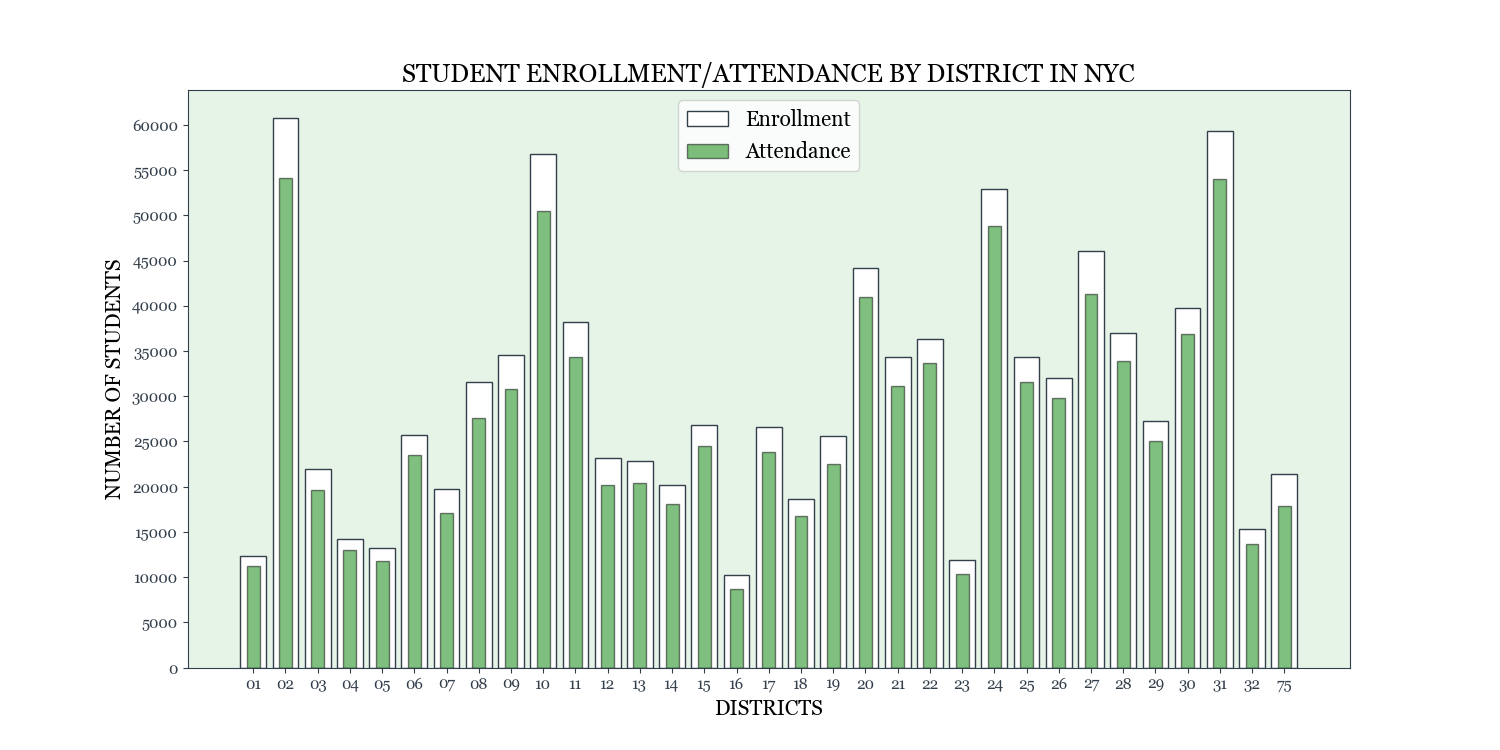
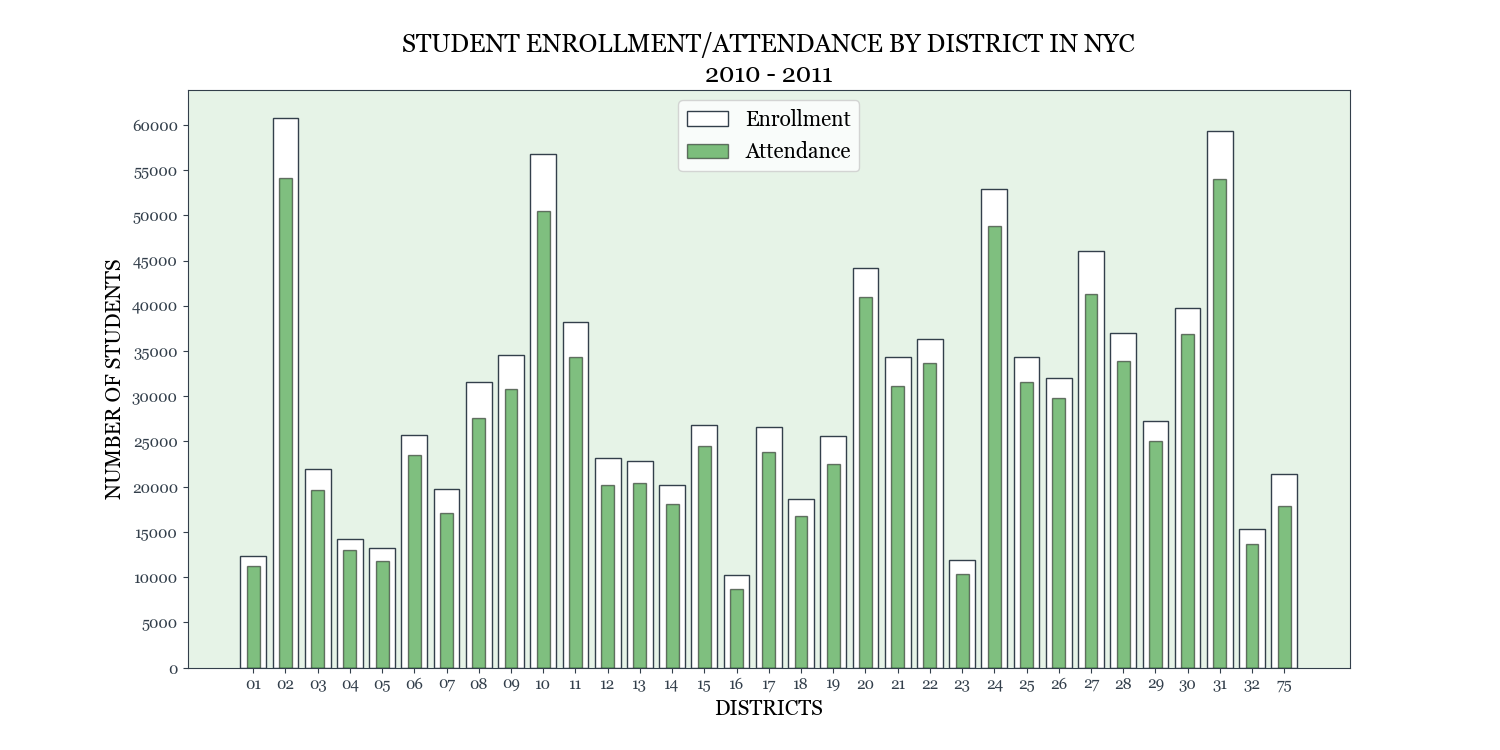
Update graph to contain date of data collection

Changed region(s): [[0.276, 0.0307, 0.7667, 0.1227]]

diff --git a/district_enrollment/school.py b/district_enrollment/school.py
@@ -37,8 +37,7 @@ plt.yticks(np.arange(0, max(enrollment), tickfq)) #change tick frequency
 # LABELS
 plt.xlabel('DISTRICTS')
 plt.ylabel('NUMBER OF STUDENTS')
-plt.title('STUDENT ENROLLMENT/ATTENDANCE BY DISTRICT IN NYC')
-
+plt.title('STUDENT ENROLLMENT/ATTENDANCE BY DISTRICT IN NYC\n2010 - 2011')
 # PLOTS (not including last 3 special columns)
 plt.bar(districts[0:-2], enrollment[0:-2], color = 'white', edgecolor='#333F4B', width=width, label='Enrollment')
 plt.bar(districts[0:-2], attendance[0:-2], color = 'green', edgecolor='black', alpha = 0.5, width=0.5 * width, label='Attendance')
@@ -46,4 +45,4 @@ plt.legend()
 
 #SAVE OUTPUT
 #plt.show()
-plt.savefig('forest_graph3.png')
+plt.savefig('forest_graph.png')
